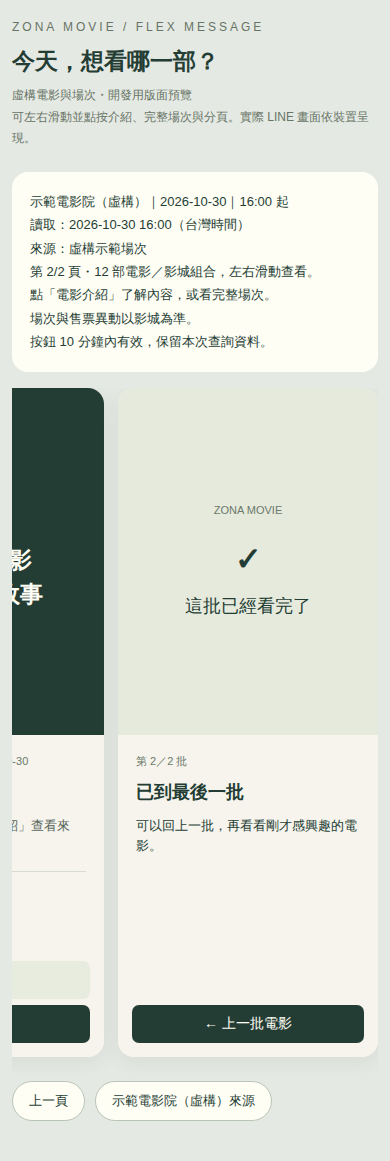
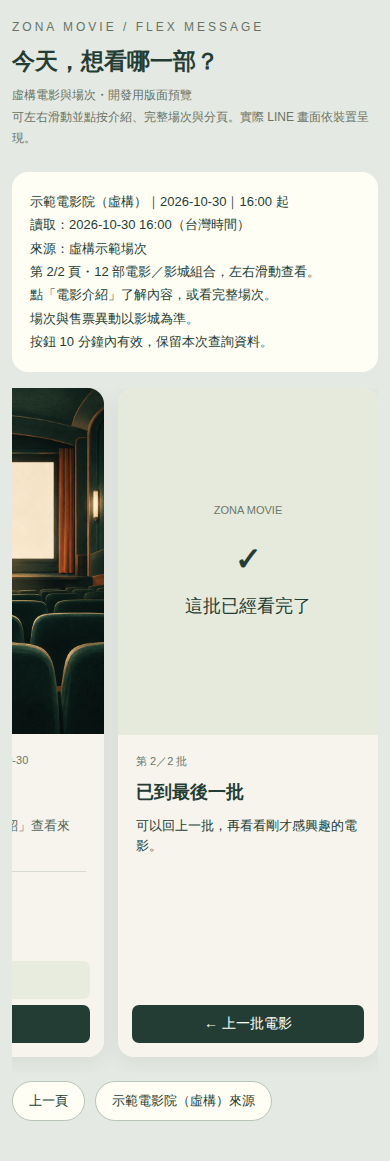
Record deployed fallback artwork and refreshed mobile previews

Changed region(s): [[0.0308, 0.3101, 0.2769, 0.6822]]

diff --git a/docs/verification-06.md b/docs/verification-06.md
@@ -56,3 +56,14 @@
 - 仍使用相同 actor 綁定與十分鐘 snapshot，不增加模型呼叫或讀寫私人票根；保留原快速分頁按鈕。
 - 正式服務 active，部署模組確認十張電影卡加一張導航卡及前後切換；公開 health、票匣、私有 API 權限與簽章空事件 Webhook 正常，Rich Menu／Published MINI App 保留。
 - 更新前備份 `/var/lib/movie-bot/pre-flex-navigation-20261030.sqlite`，兩筆票根完整資料雜湊一致，SQLite `quick_check=ok`。舊訊息維持原樣，重新查詢後才出現新導航卡；手機實際呈現仍待使用者確認。
+
+## 同日調整：無海報時的電影主題插畫
+
+- 部署來源：`da4227e6eed18f18f863e68ebc2bcc3fdd3d9f34`；[GitHub CI](https://github.com/zonawang/movie-companion-bot-06-flex-message/actions/runs/41083939165) 的 112 項 Node 測試與瀏覽器測試均成功。
+- 缺少明確配對的海報時，改用內建 image_gen 產生的無文字電影院插畫，已移除原本的標語文字封面；已配對海報繼續優先顯示。素材及完整提示見 [封面圖片](../public/assets/poster-fallback-v1.jpg) 與 [生成紀錄](../assets/poster-fallback-v1.prompt.md)。
+- 選定插畫輸出為 768×1024 JPEG、210,958 bytes，符合 LINE Flex 圖片尺寸與格式限制；僅做交付尺寸及 JPEG 格式轉換，沒有修改插畫內容。
+- 前端預覽內嵌相同 JPEG，瀏覽器確認十張圖片解碼成功、舊標語消失，且分頁、介紹與完整場次操作正常。已更新並檢視手機預覽圖；仍屬開發用 HTML，非 LINE 官方渲染器。
[1 lines of base64/hex data omitted]
+- 替代插畫與海報樣式的 LINE 格式驗證皆為 200，部署後亦再次驗證使用正式公開圖片網址的訊息格式。未推送測試訊息。
+- 服務 active，health、票匣、私有 API 權限與簽章空事件 Webhook 正常，Rich Menu／Published MINI App 保留。更新前備份 `/var/lib/movie-bot/pre-flex-artwork-20261030.sqlite`；原有兩筆票根完整校驗一致，SQLite `quick_check=ok`。
+- 重新查詢後才套用新封面；既有聊天室訊息保留原本內容。實際手機端仍待使用者確認。
